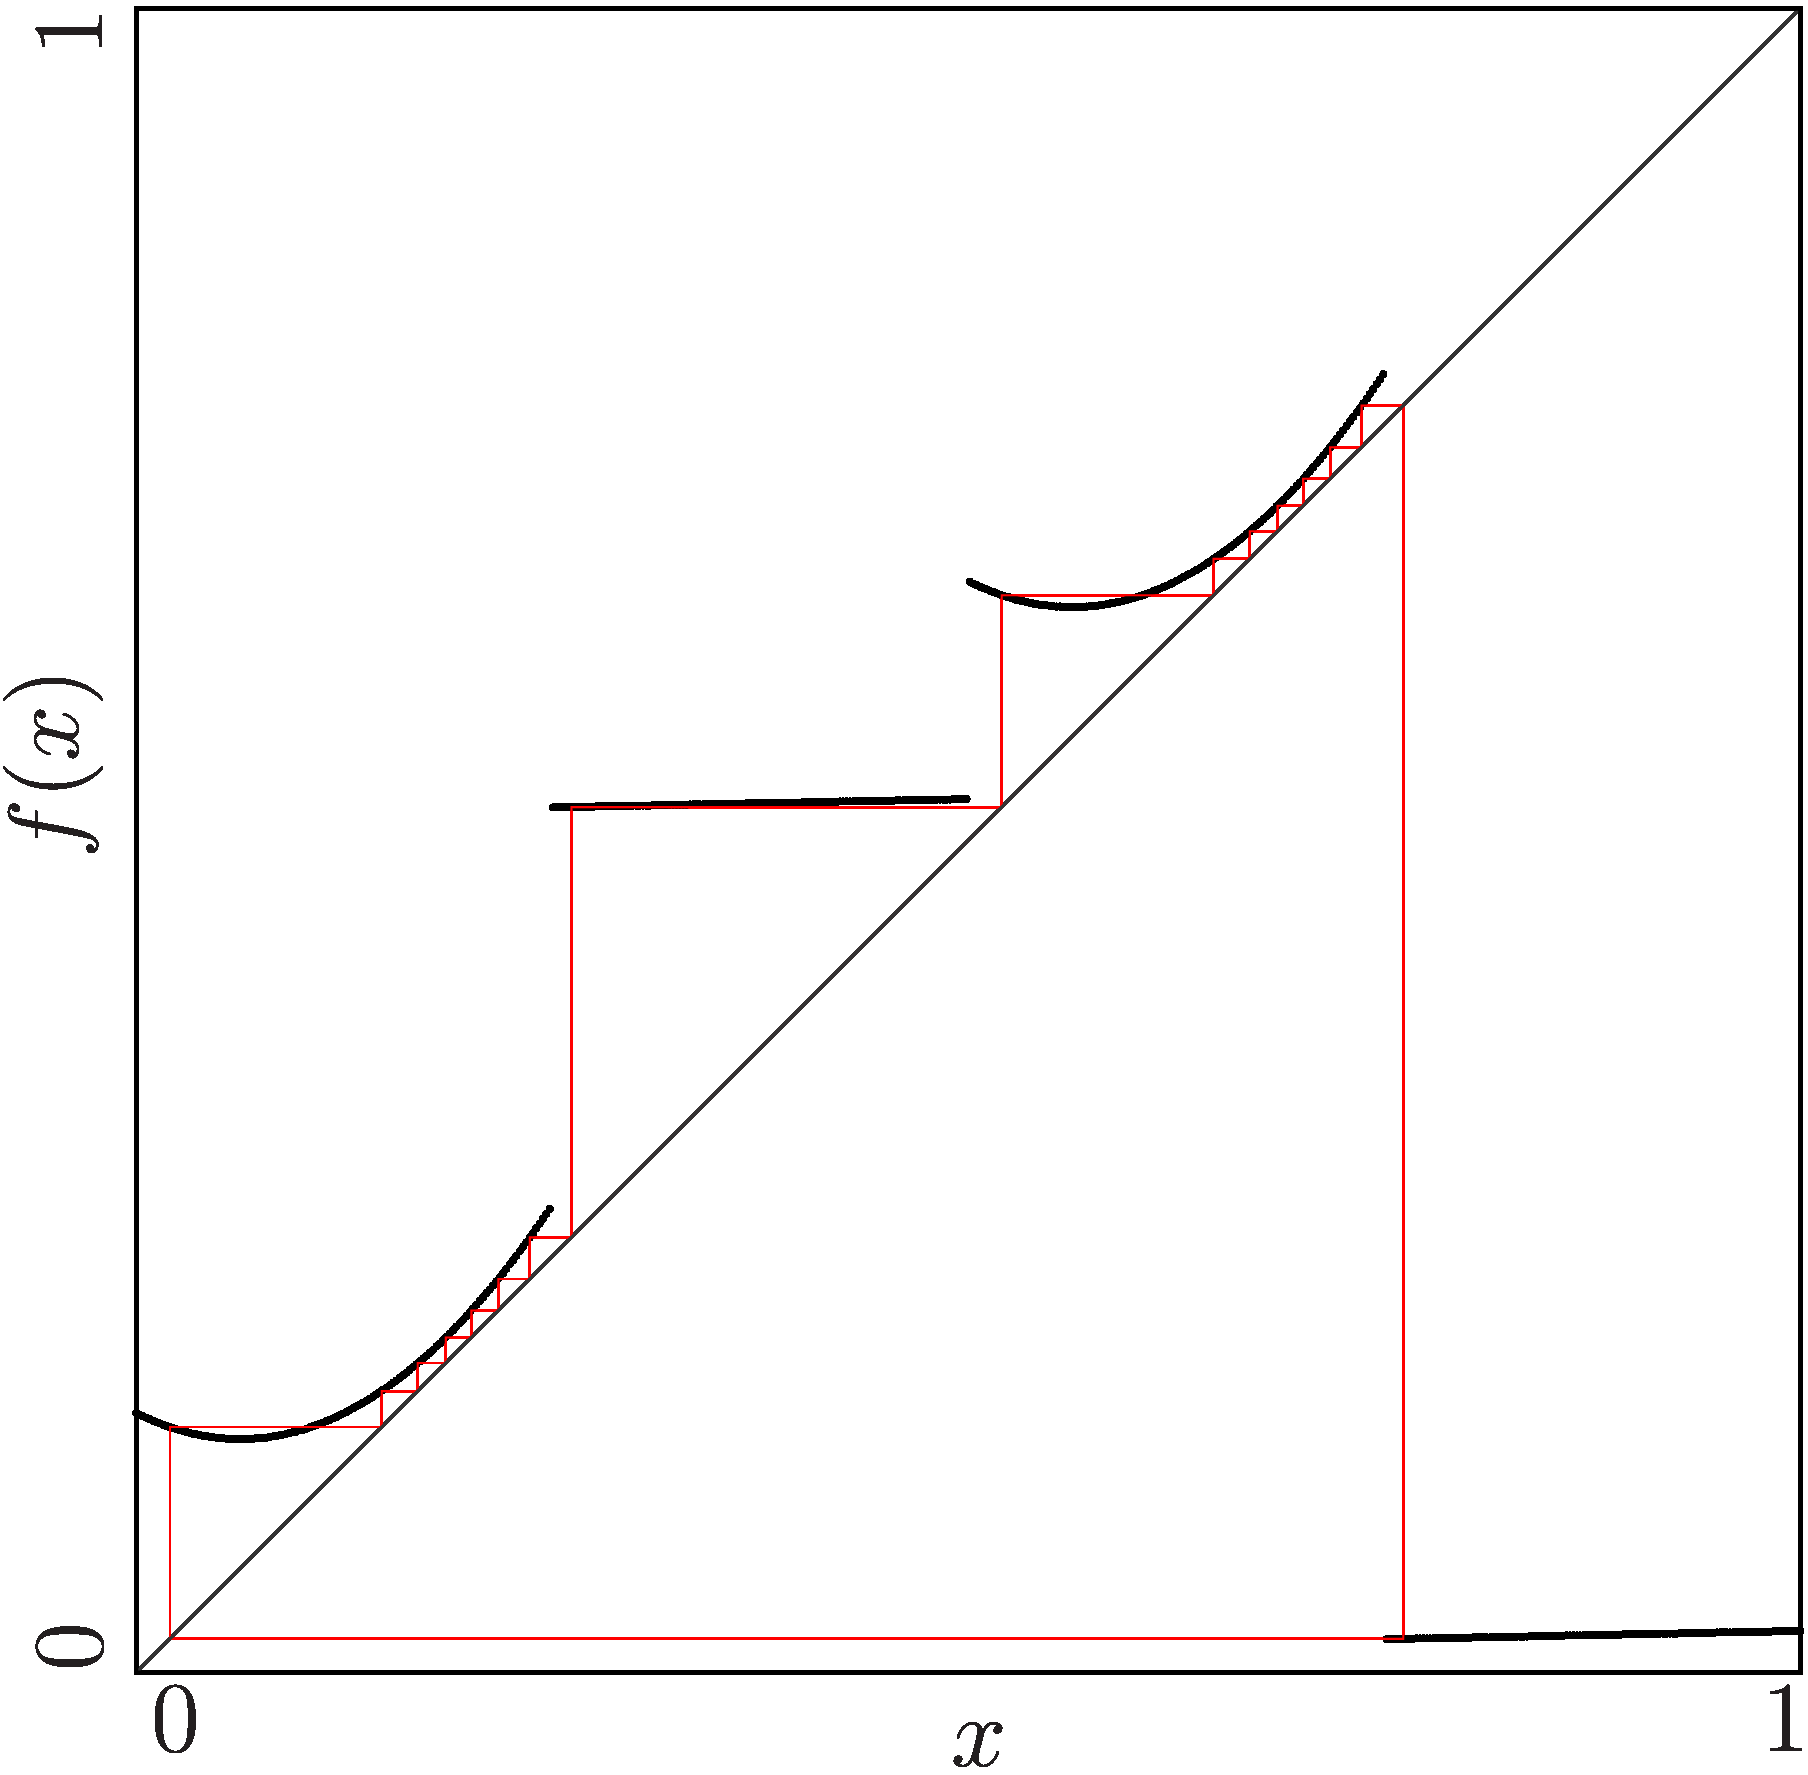
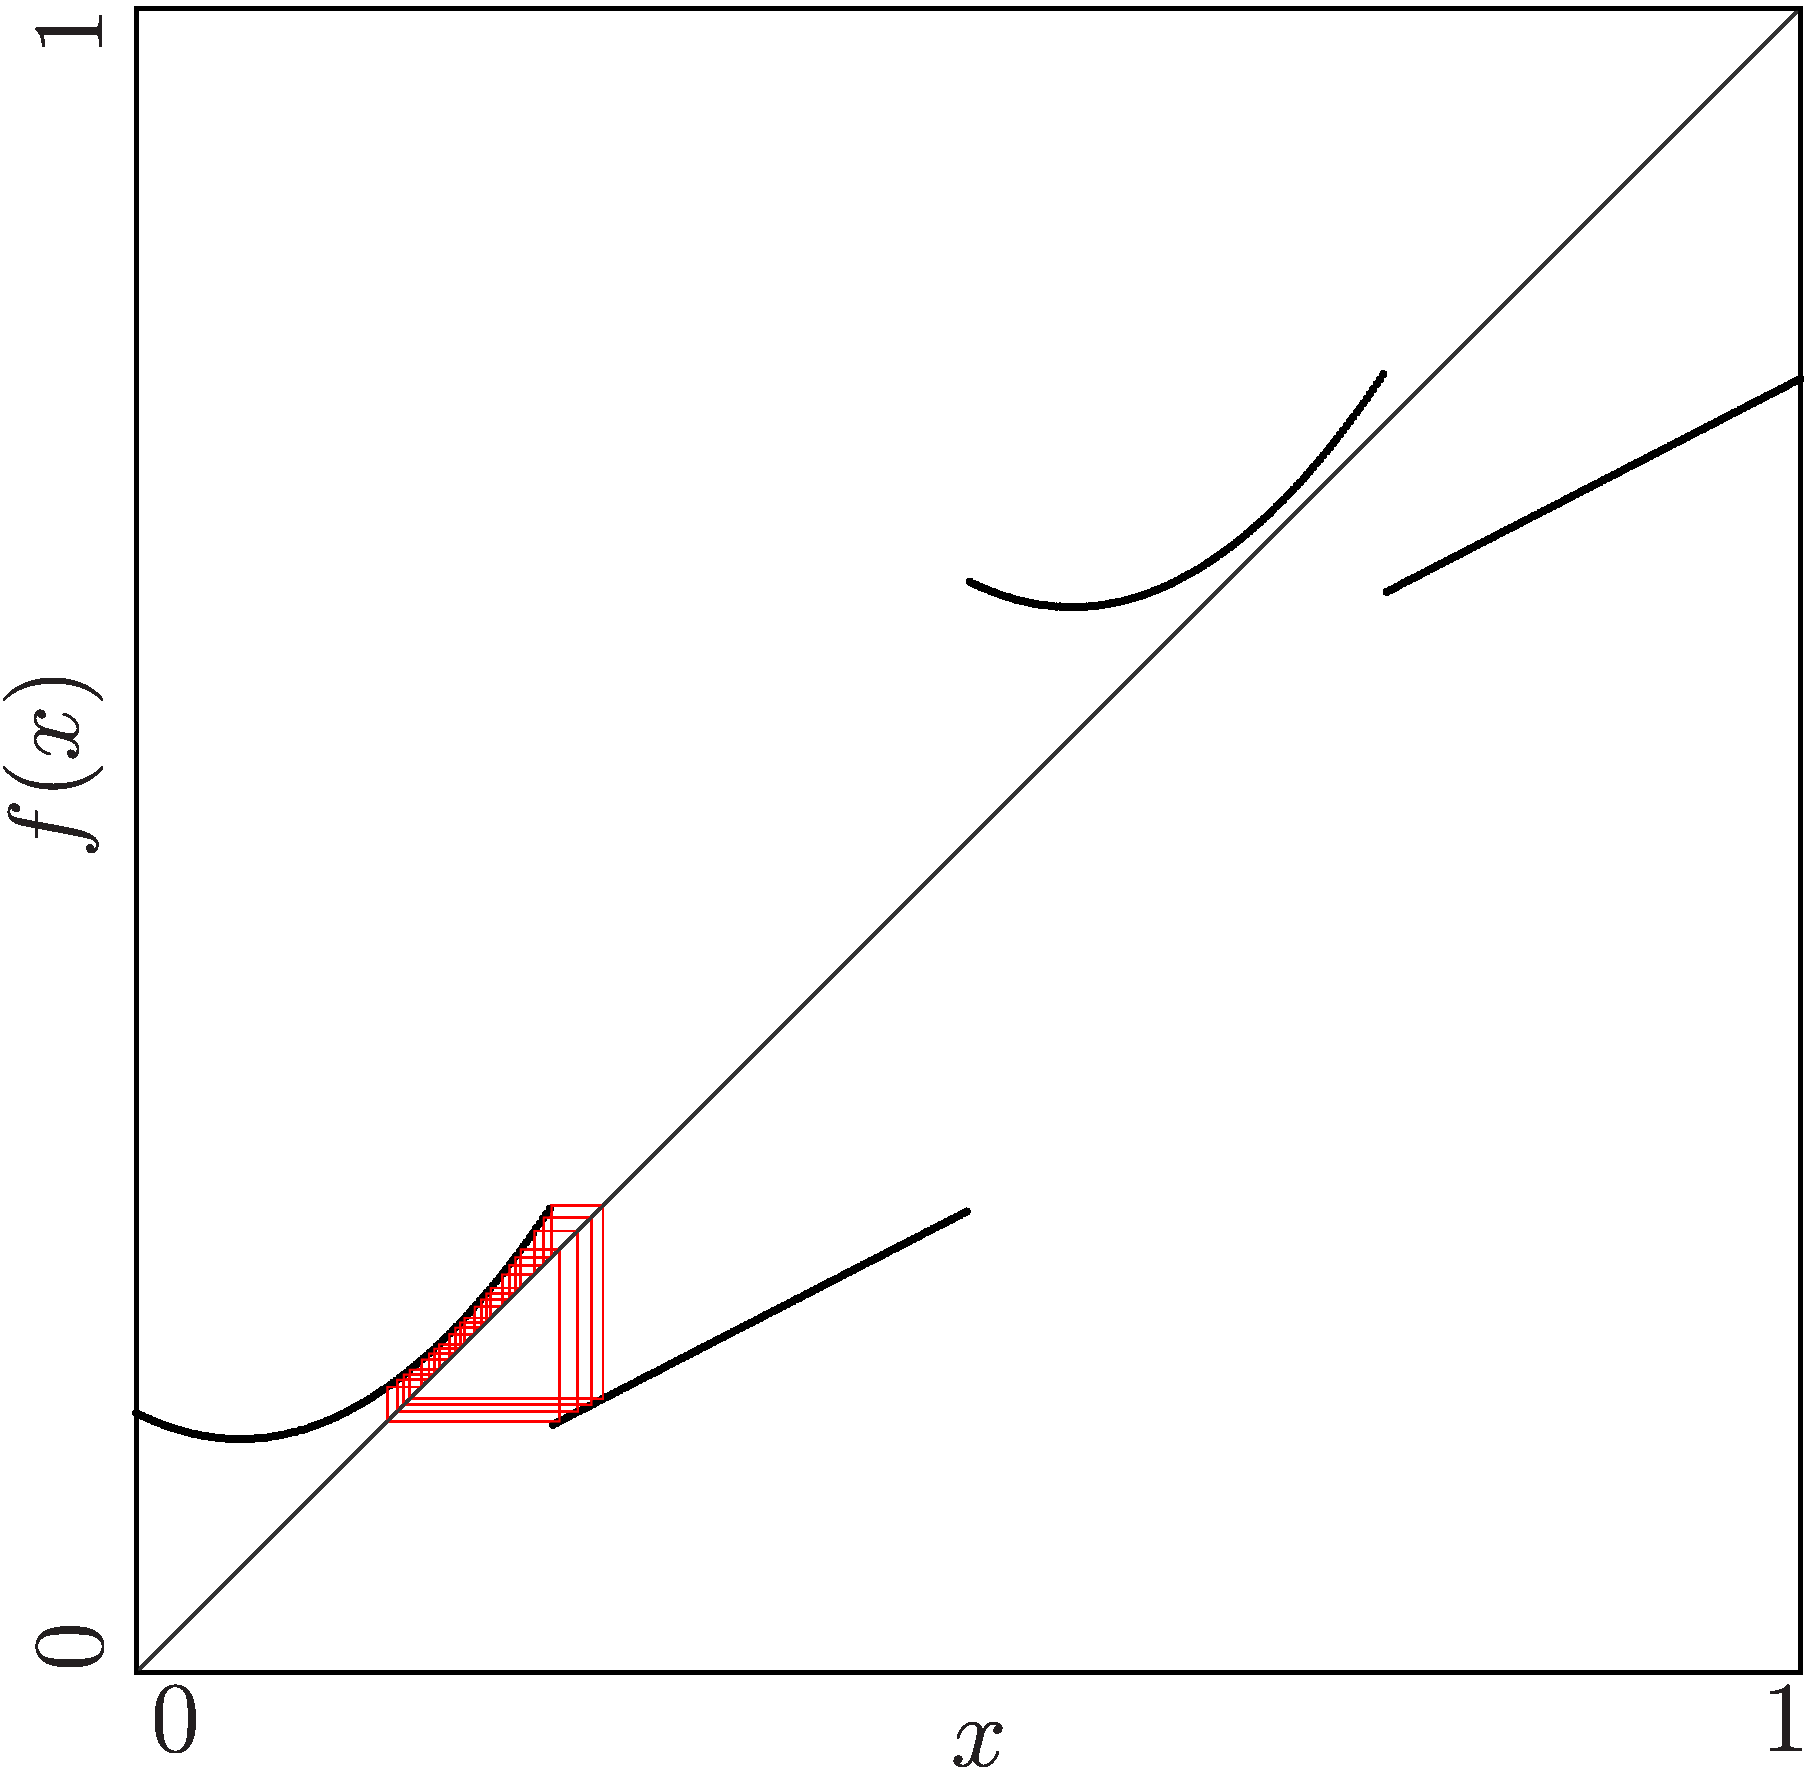
WIP remove moving branches

diff --git a/Simulation/Models/60_MinimalRepr/model.cpp b/Simulation/Models/60_MinimalRepr/model.cpp
@@ -17,8 +17,8 @@
 #define B (0.525)
 
 // Internal parameters for computing branches B and D
-#define _bR ((B - A) * 4.)
-#define _cR ((A + B) / 2.)
+#define _bR ((2. * A) - B)
+#define _cR (4. * (B - A))
 
 #define n       0.5     // Discontinuity in the middle
 #define border  0.25    // Discontinuity in the middle of the left half
@@ -30,19 +30,17 @@ bool f(
 ) {
     real_t y = 0;
 
-    real_t x_mod = currentState[0];
+    real_t x = currentState[0];
 
     // Enforce symmetry f(x + n) = f(x) + n
-    if (x_mod >= n) {
-        x_mod -= n;
+    if (x >= n) {
+        x -= n;
         y += n;
     }
 
-    if (x_mod < border) {   // "Left" branch (branches A and C)
-        real_t x = x_mod - n / 4;
+    if (x < border) {   // "Left" branch (branches A and C)
         y += _aL * x * x + _bL * x + _cL;
-    } else {                // "Right" branch (branches B and D)
-        real_t x = x_mod - 3 * n / 4;
+    } else {            // "Right" branch (branches B and D)
         y += _bR * x + _cR;
     }
 
